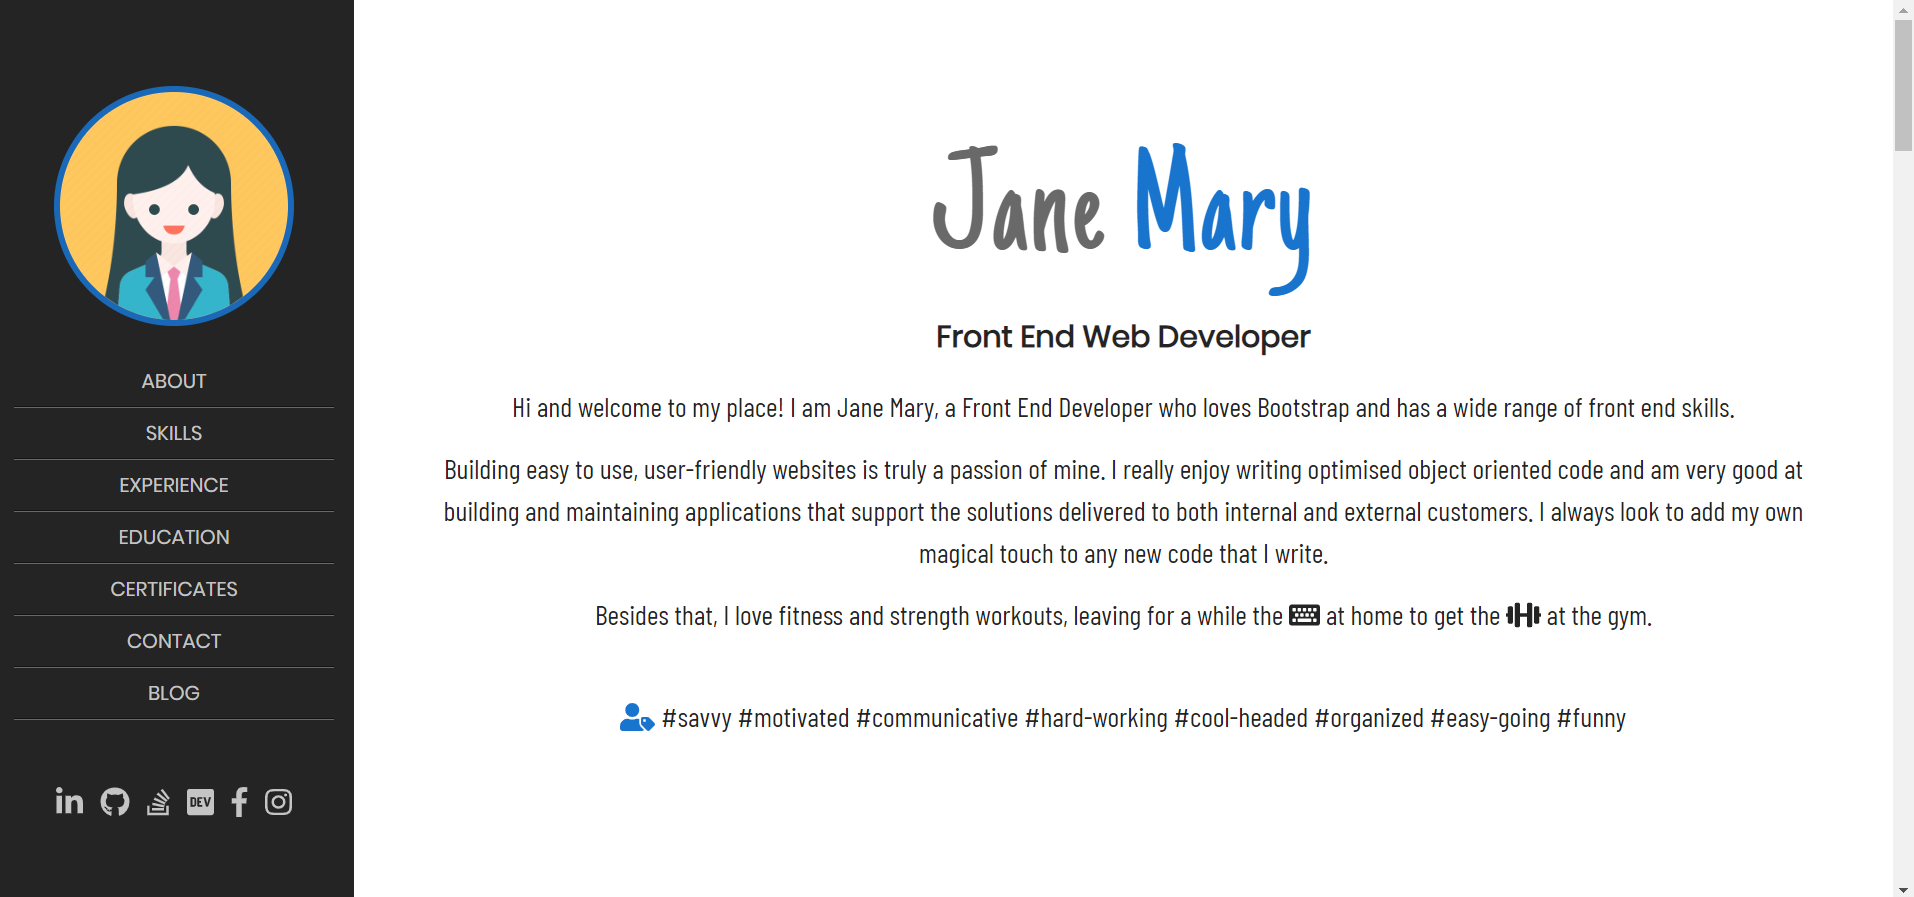
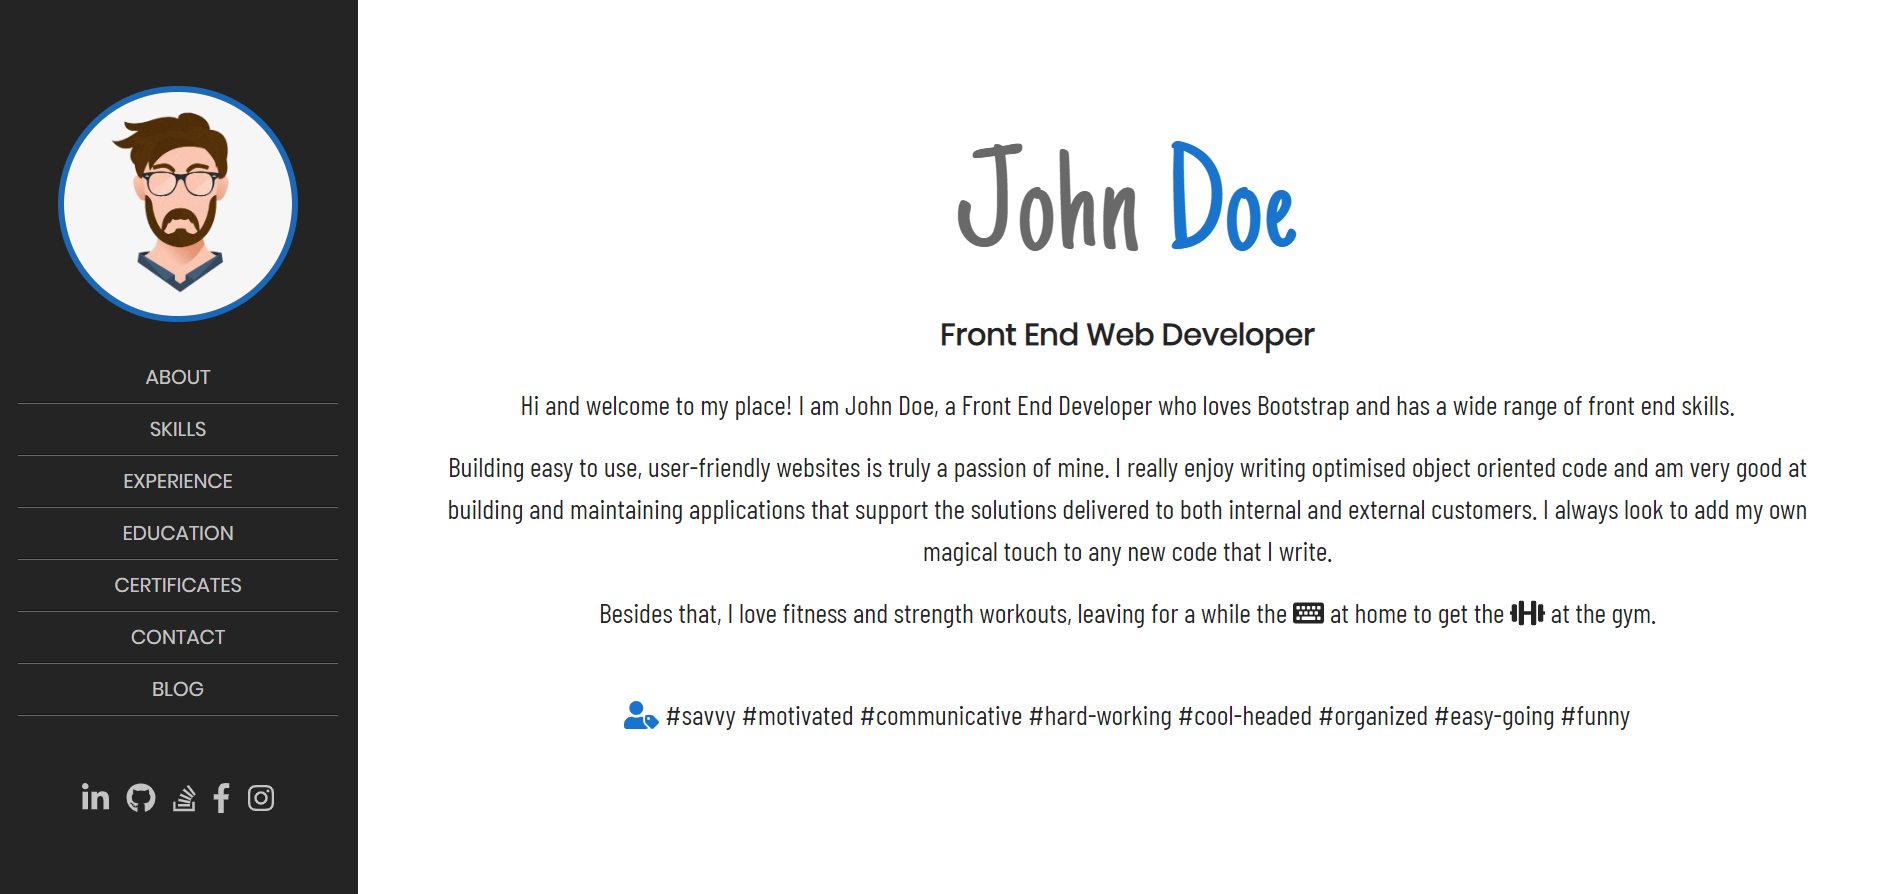
HTML and CSS improvements

diff --git a/index.html b/index.html
@@ -7,11 +7,10 @@
       content="width=device-width, initial-scale=1, shrink-to-fit=no"
     />
     <meta name="description" content="" />
-    <meta name="author" content="" />
+    <meta name="author" content="Savvina Drougouti" />
 
     <title>Responsive Resume Template</title>
-    <link rel="shortcut icon" href="/favicon.ico" type="image/x-icon">
-<link rel="icon" href="/favicon.ico" type="image/x-icon">
+    <link rel="icon" href="/favicon.ico" type="image/x-icon" />
 
     <!-- Bootstrap core CSS -->
     <link href="vendor/bootstrap/css/bootstrap.min.css" rel="stylesheet" />
@@ -45,7 +44,7 @@
         <span class="d-none d-lg-block">
           <img
             class="img-fluid img-profile mb-3"
-            src="photo-profile.png"
+            src="avatar.jpg"
             alt="Profile Picture"
           />
         </span>
@@ -108,52 +107,27 @@
             class="list-inline list-social-icons icon-circle icon-zoom mt-5 mb-0"
           >
             <li class="list-inline-item">
-              <a
-                href="https://www.linkedin.com/in/savvina-drougouti/"
-                target="_blank"
-                rel="noopener"
-              >
+              <a href="" target="_blank" rel="noopener">
                 <i class="fab fa-linkedin-in"></i>
               </a>
             </li>
             <li class="list-inline-item">
-              <a
-                href="https://github.com/DrSavvina"
-                target="_blank"
-                rel="noopener"
-              >
+              <a href="" target="_blank" rel="noopener">
                 <i class="fab fa-github"></i>
               </a>
             </li>
             <li class="list-inline-item">
-              <a
-                href="https://stackoverflow.com/users/8870688/blacknina"
-                target="_blank"
-                rel="noopener"
-              >
+              <a href="" target="_blank" rel="noopener">
                 <i class="fab fa-stack-overflow"></i>
               </a>
             </li>
             <li class="list-inline-item">
-              <a href="https://dev.to/drsavvina" target="_blank" rel="noopener">
-                <i class="fab fa-dev"></i>
-              </a>
-            </li>
-            <li class="list-inline-item">
-              <a
-                href="https://www.facebook.com/dr.savvina"
-                target="_blank"
-                rel="noopener"
-              >
+              <a href="" target="_blank" rel="noopener">
                 <i class="fab fa-facebook-f"></i>
               </a>
             </li>
             <li class="list-inline-item">
-              <a
-                href="https://www.instagram.com/savvina.dr"
-                target="_blank"
-                rel="noopener"
-              >
+              <a href="" target="_blank" rel="noopener">
                 <i class="fab fa-instagram"></i>
               </a>
             </li>
@@ -166,14 +140,12 @@
       <section class="resume-section p-3 p-lg-5" id="about">
         <div class="my-auto">
           <p class="mobile-name">
-            <img class="mobile-img" src="photo-profile.png" alt="Profile Picture" />
+            <img class="mobile-img" src="avatar.jpg" alt="Profile Picture" />
           </p>
-          <p class="mobile-name">
-            Jane <span class="family-name"> Mary</span>
-          </p>
+          <p class="mobile-name">John <span class="family-name"> Doe</span></p>
           <h1 class="mb-3 mt-5">
-            Jane
-            <span class="family-name"> Mary</span>
+            John
+            <span class="family-name"> Doe</span>
           </h1>
           <p class="mobile-profession">
             Front End Web Developer
@@ -183,11 +155,17 @@
           </h4>
 
           <p class="mb-3">
-            Hi and welcome to my place! I am Jane Mary, a Front End Developer who loves Bootstrap and has a wide range of front end skills. 
+            Hi and welcome to my place! I am John Doe, a Front End Developer who
+            loves Bootstrap and has a wide range of front end skills.
           </p>
 
           <p>
-            Building easy to use, user-friendly websites is truly a passion of mine. I really enjoy writing optimised object oriented code and am very good at building and maintaining applications that support the solutions delivered to both internal and external customers. I always look to add my own magical touch to any new code that I write.
+            Building easy to use, user-friendly websites is truly a passion of
+            mine. I really enjoy writing optimised object oriented code and am
+            very good at building and maintaining applications that support the
+            solutions delivered to both internal and external customers. I
+            always look to add my own magical touch to any new code that I
+            write.
           </p>
 
           <p>
@@ -204,7 +182,7 @@
       </section>
 
       <section class="resume-section p-3 p-lg-5" id="skills">
-        <h2 class="mb-5">&lt; Skills &gt;</h2>
+        <h2 class="headings mb-5">&lt; Skills &gt;</h2>
         <div class="my-auto">
           <ul class="list-inline list-icons mb-4">
             <li class="list-inline-item">
@@ -293,13 +271,13 @@
         </div>
 
         <p class="pt-3">
-          <i class="fas fa-user-tag"></i> #DevOps #Agile #Jira
-          #Organization #TimeManagement #Communication
+          <i class="fas fa-user-tag"></i> #DevOps #Agile #Jira #Organization
+          #TimeManagement #Communication
         </p>
       </section>
 
       <section class="resume-section p-3 p-lg-5" id="experience">
-        <h2 class="mb-4">&lt; Experience &gt;</h2>
+        <h2 class="headings mb-4">&lt; Experience &gt;</h2>
 
         <div class="my-auto">
           <div class="row">
@@ -316,7 +294,9 @@
                   <h5 class="card-title">Front End Web Developer</h5>
 
                   <ul class="list-group list-group-flush">
-                    <li class="list-group-item">Building responsive websites</li>
+                    <li class="list-group-item">
+                      Building responsive websites
+                    </li>
                     <li class="list-group-item">
                       Wordpress blogs
                     </li>
@@ -342,7 +322,9 @@
                     <li class="list-group-item">
                       Creating mobile-friendly business websites
                     </li>
-                    <li class="list-group-item">Building online personal pages</li>
+                    <li class="list-group-item">
+                      Building online personal pages
+                    </li>
                     <li class="list-group-item">Customer support</li>
                   </ul>
                 </div>
@@ -351,11 +333,7 @@
 
             <div class="col-12 col-md-6 col-lg-4">
               <div class="card mb-5">
-                <img
-                  class="card-img-top p-2"
-                  src="blogging.jpg"
-                  alt="blogging"
-                />
+                <img class="card-img-top" src="blogging.jpg" alt="blogging" />
                 <div class="card-body pb-0">
                   <p>April 2018 - Present</p>
                   <h5 class="card-title">IT Blogger</h5>
@@ -387,16 +365,19 @@
       </section>
 
       <section class="resume-section p-3 p-lg-5" id="education">
-        <h2 class="mb-4">&lt; Education &gt;</h2>
+        <h2 class="headings mb-4">&lt; Education &gt;</h2>
 
         <div class="row">
           <div class="col-12 col-md-6 col-lg-4">
             <div class="card mb-4">
-              <img class="card-img-top p-1" src="uni1.png" alt="university1" />
+              <div class="edu-icons">
+                <i class="fas fa-university fa-5x"></i>
+              </div>
+
               <div class="card-body pb-0">
                 <p>2017 - 2018</p>
                 <h5 class="card-title">Web Development</h5>
-                <p>Google Developer Challenge Scholarship</p>
+
                 <ul class="list-group list-group-flush">
                   <li class="list-group-item">HTML5 & CSS3</li>
                   <li class="list-group-item">JavaScript</li>
@@ -408,11 +389,9 @@
           </div>
           <div class="col-12 col-md-6 col-lg-4">
             <div class="card mb-4">
-              <img
-                class="card-img-top p-1"
-                src="uni1.png"
-                alt="university2"
-              />
+              <div class="edu-icons">
+                <i class="fas fa-graduation-cap fa-5x edu-icons"></i>
+              </div>
               <div class="card-body pb-0">
                 <p>2017 - 2018</p>
                 <h5 class="card-title">Front-End Web Development</h5>
@@ -428,17 +407,18 @@
           </div>
           <div class="col-12 col-md-6 col-lg-4">
             <div class="card mb-4">
-              <img class="card-img-top p-1" src="uni1.png" alt="school3" />
+              <div class="edu-icons">
+                <i class="fas fa-university fa-5x"></i>
+              </div>
               <div class="card-body pb-0">
                 <p>2017 - 2018</p>
                 <h5 class="card-title">Web Development</h5>
-                
-                  <ul class="list-group list-group-flush">
-                    <li class="list-group-item">HTML5 & CSS3</li>
-                    <li class="list-group-item">JavaScript</li>
-                    <li class="list-group-item">jQuery</li>
-                    <li class="list-group-item">Teamwork</li>
-                  
+
+                <ul class="list-group list-group-flush">
+                  <li class="list-group-item">HTML5 & CSS3</li>
+                  <li class="list-group-item">JavaScript</li>
+                  <li class="list-group-item">jQuery</li>
+                  <li class="list-group-item">Teamwork</li>
                 </ul>
               </div>
             </div>
@@ -448,11 +428,11 @@
 
       <section class="resume-section p-3 p-lg-5" id="certificates">
         <div class="my-auto">
-          <h2 class="mb-5">&lt; Certificates &gt;</h2>
+          <h2 class="headings mb-5">&lt; Certificates &gt;</h2>
           <div class="row">
             <div class="col-12 col-md-6 col-lg-4">
               <div class="card mb-4">
-                <p class="cert-icons pt-4">
+                <p class="edu-icons pt-4">
                   <i class="fas fa-certificate fa-5x"></i>
                 </p>
                 <h5 class="pt-4">
@@ -466,7 +446,7 @@
             </div>
             <div class="col-12 col-md-6 col-lg-4">
               <div class="card mb-4">
-                <p class="cert-icons pt-4">
+                <p class="edu-icons pt-4">
                   <i class="fas fa-certificate fa-5x"></i>
                 </p>
                 <h5 class="pt-4">WebAcademy</h5>
@@ -477,7 +457,7 @@
             </div>
             <div class="col-12 col-md-6 col-lg-4">
               <div class="card mb-5">
-                <p class="cert-icons pt-4">
+                <p class="edu-icons pt-4">
                   <i class="fas fa-award fa-5x"></i>
                 </p>
                 <h5 class="pt-4">Award Academy</h5>
@@ -493,17 +473,16 @@
 
       <section class="resume-section p-3 p-lg-5" id="contact">
         <div class="my-auto">
-          <h2 class="mb-3">&lt; Contact &gt;</h2>
+          <h2 class="headings mb-3">&lt; Contact &gt;</h2>
 
           <ul class="fa-ul mb-4 ml-0">
             <li id="mail-address">
               <a href="mailto:youremail@mail.com">
-                <i class="fas fa-envelope-open mr-2"></i
-                >youremail@mail.com</a
+                <i class="fas fa-envelope-open mr-2"></i>youremail@mail.com</a
               >
             </li>
             <li><i class="fas fa-mobile-alt mr-2"></i>+35988488488</li>
-            <li><i class="fas fa-map-marker-alt mr-2"></i>Sofia, BG</li>
+            <li><i class="fas fa-map-marker-alt mr-2"></i>myLocation, World</li>
           </ul>
 
           <p>
@@ -514,7 +493,7 @@
           <form
             class="contact-form"
             method="POST"
-            action="https://formspree.io/youremail@mail.com" 
+            action="https://formspree.io/youremail@mail.com"
           >
             <div class="form-group">
               <input

diff --git a/style.css b/style.css
@@ -1,7 +1,6 @@
 body {
   box-sizing: border-box;
   font-family: "Barlow Condensed", sans-serif;
-  font-size: 1.2rem;
   color: #242424;
   width: 100%;
   background-color: white;
@@ -24,10 +23,6 @@ h6,
   color: #1874cd;
 }
 
-ul.tasklist {
-  list-style: none;
-}
-
 h2,
 h4,
 h5,
@@ -45,7 +40,8 @@ h1,
 }
 
 h1,
-.mobile-name {
+.mobile-name,
+.edu-icons {
   color: #696969;
 }
 
@@ -124,10 +120,6 @@ a {
   border: none;
 }
 
-.cert-icons {
-  color: #add8e6;
-}
-
 .card {
   border: none;
 }
@@ -136,7 +128,6 @@ button:focus,
 button:active {
   outline: solid #add8e6 2px;
 }
-
 
 @media (min-width: 320px) and (max-width: 992px) {
   h1,
@@ -211,9 +202,9 @@ button:active {
     padding-bottom: 10rem !important;
   }
 
-  section.resume-section .resume-item .resume-date {
+  /* section.resume-section .resume-item .resume-date {
     min-width: none;
-  }
+  } */
   #sideNav {
     text-align: center;
     display: flex;
